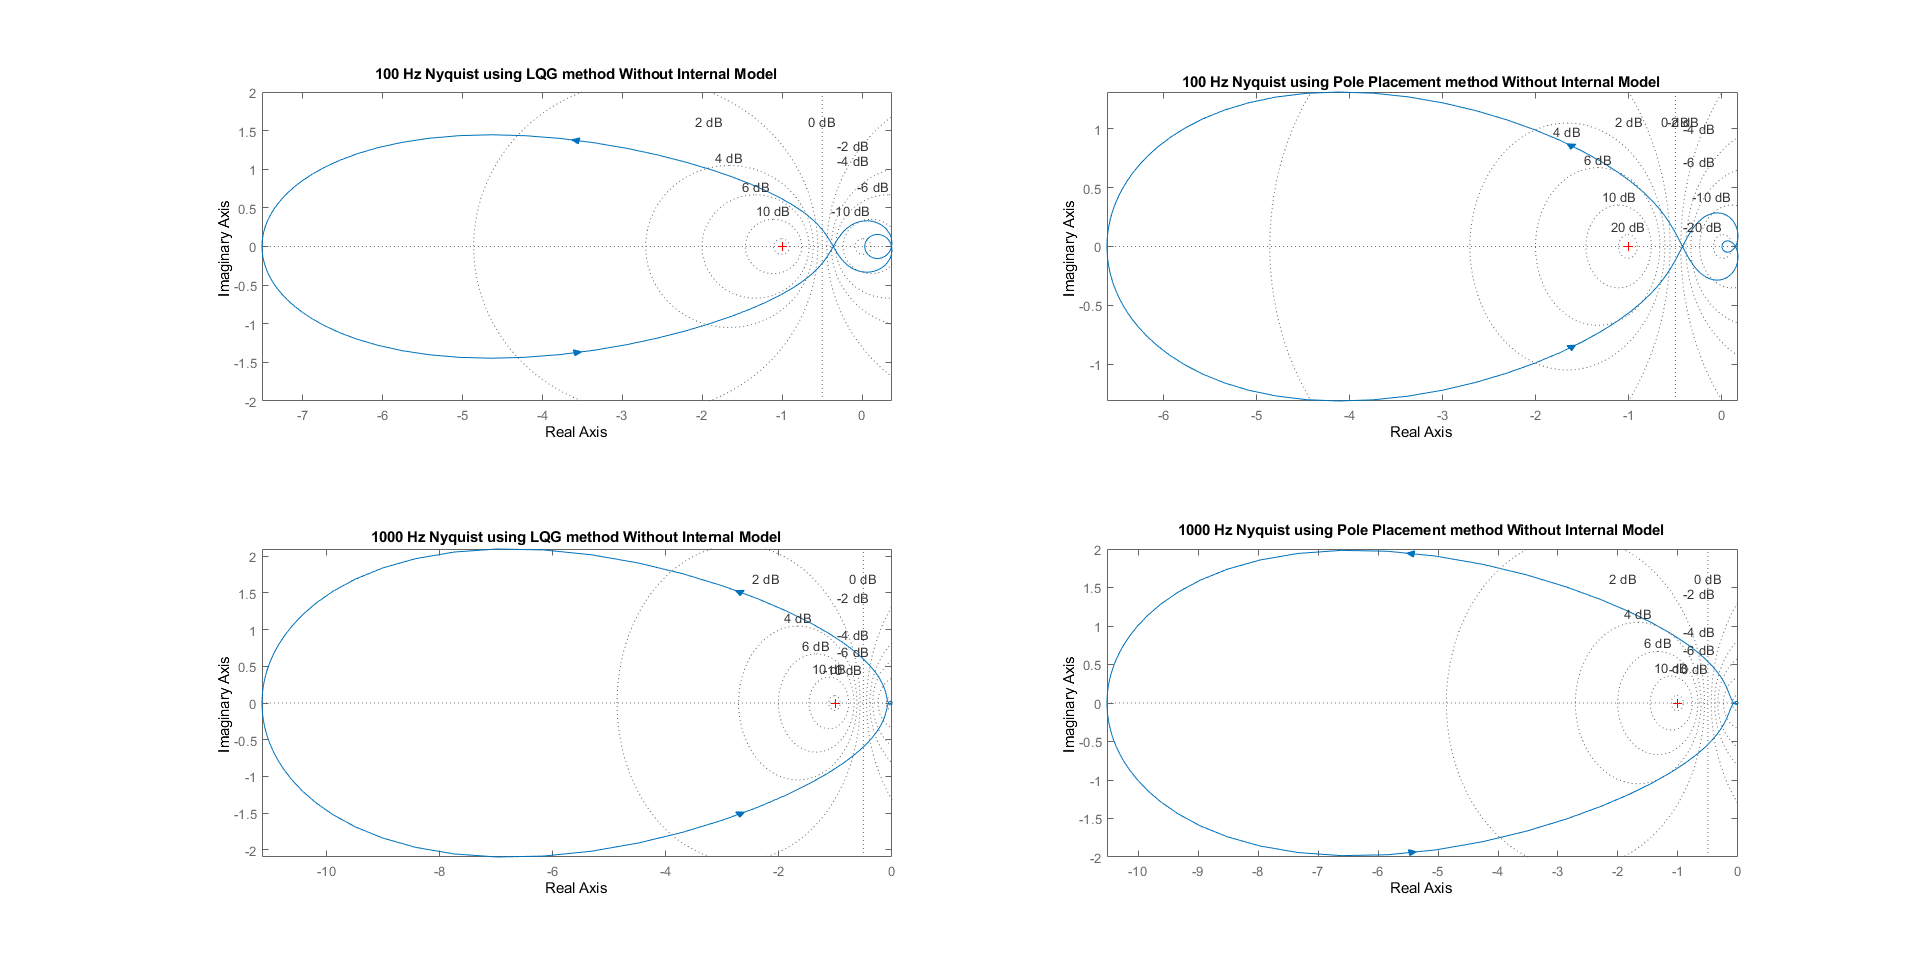
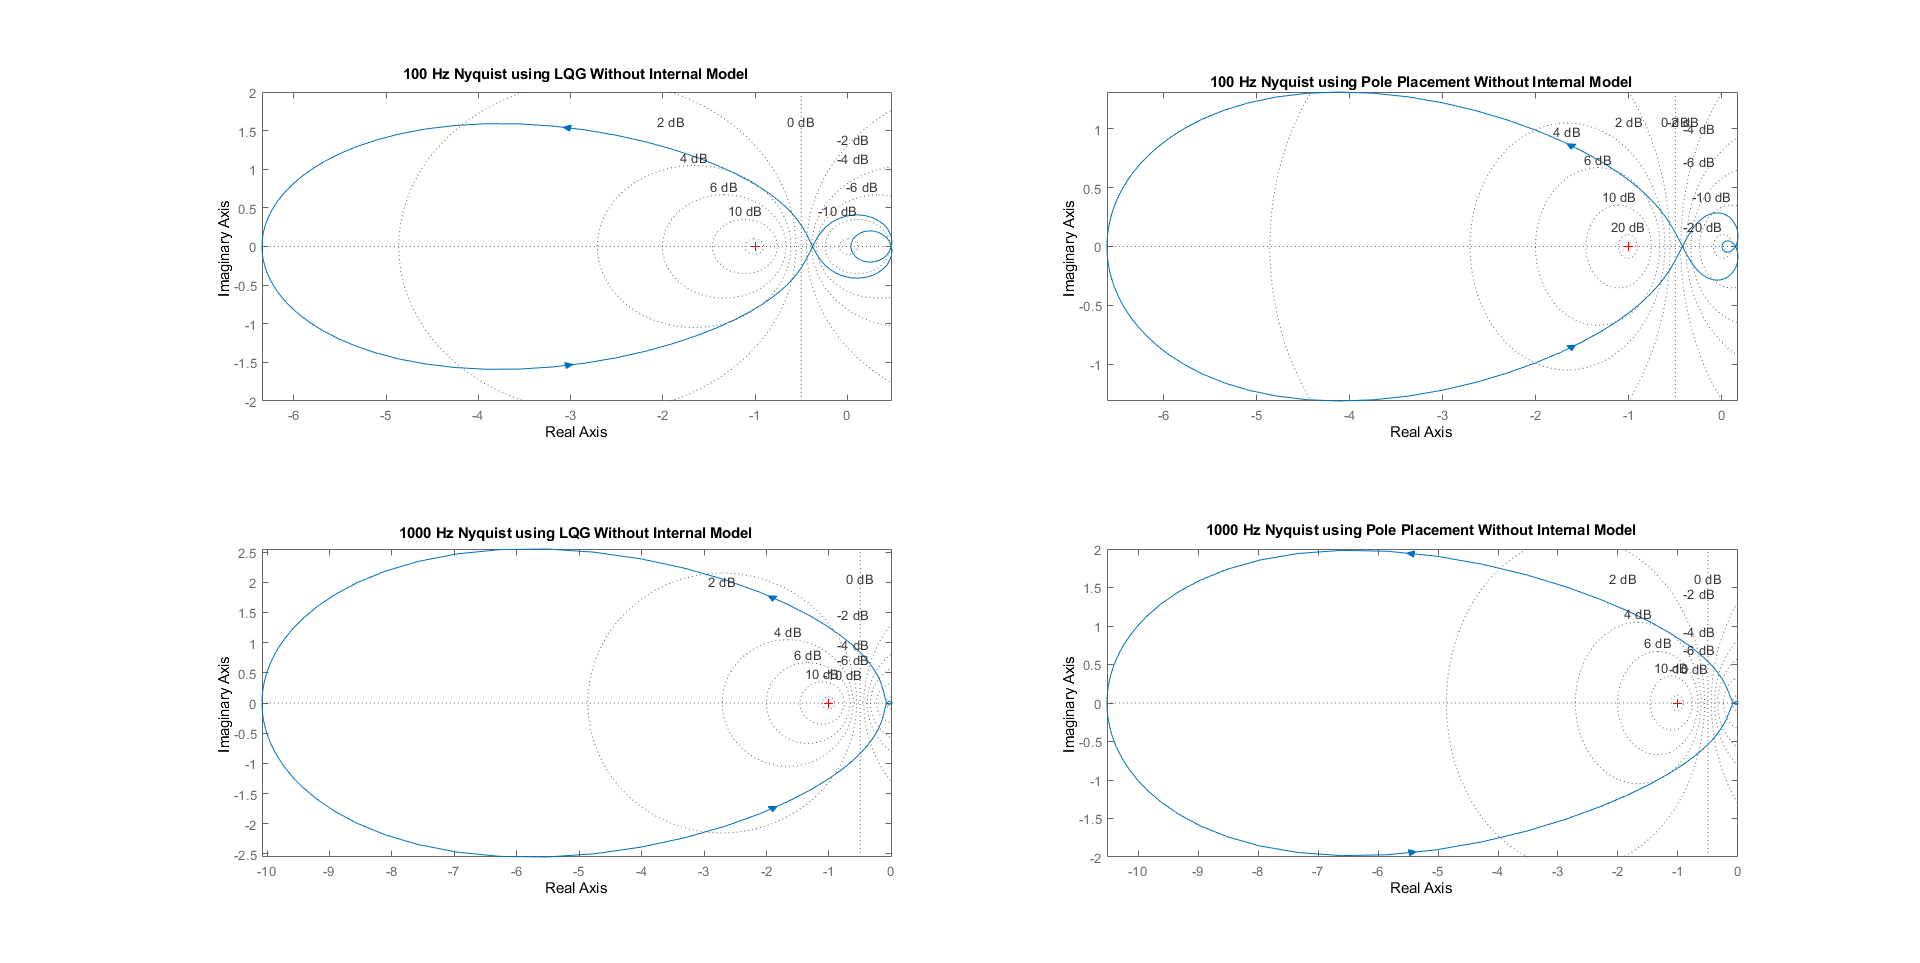
Corrected SOFCIO plot

diff --git a/src/Integral/step_response_our_int.m b/src/Integral/step_response_our_int.m
@@ -78,9 +78,9 @@ for i = 1:2
     Mp_ctl = 15/100; % Maximum percent overshoot 15%
     
     design_lib = ["SOFC","SOFCI","SOFCIO"];
-    design = design_lib(3);
+    design = design_lib(2);
     plot_libs = ["Without Internal Model","With Integrator Only","With Integrator + Oscillator"];
-    plot_lib = plot_libs(3);
+    plot_lib = plot_libs(2);
     methods = ["LQG","Pole Placement"];
     for j = 1:1
         method = methods(j);
@@ -88,7 +88,7 @@ for i = 1:2
         [L_Pred, K_SF, N, K_int, Loop_SF, SS_closed, TF,num,dem,Ad,Bd] = SOFC(G,...
             Ts, Zeta_obs, Wn_obs, Tr_ctl, Mp_ctl, F_rotorred, design,method); %Get controller gain, observer gain and feedforward gain
         
-        K_aug = [K_SF,K_int];
+        WeK_aug = [K_SF,K_int];
         TF_yr=TF(1,1)  ;
         TF_ur=TF(2,1)  ;
         TF_er=TF(3,1)  ;
@@ -128,10 +128,8 @@ for i = 1:2
                 Controller_int = K_int/(z-1)*(1-ss(A_d-B_d*K_SF-L_Pred*C_d,B_d,K_SF,0,Ts));
                 state_order = size(A_d,1)+size(A_d,1) + 1;
             case{'SOFCIO'}
-                f = 2 * pi;
-                zeta_osi = 0;
-                osi_c = f^2 / (s*(s^2 +2 * zeta_osi *f * s + f^2));
-                osi_d = c2d(osi_c,Ts,'matched');
+                osi_d = tf(num,dem,Ts);
+%                 osi_d = c2d(osi_c,Ts,'matched');
                 Controller_int = osi_d* (1-ss(A_d-B_d*K_SF-L_Pred*C_d,B_d,K_SF,0,Ts));
                 state_order = size(A_d,1)+size(A_d,1)+3;
         end

diff --git a/lib/SOFC.m b/lib/SOFC.m
@@ -47,7 +47,7 @@ pole_z_ctl = exp(pole_s_ctl*Ts);
 switch(design)
     case{'SOFC'}
     
-        if method == "Pole_Placement"
+        if method == "Pole Placement"
             K_SF = acker(A_d,B_d,pole_z_ctl);
         else
             Q = C_d'*C_d;
@@ -95,7 +95,7 @@ switch(design)
 
     case{'SOFCIO'}
         f = 2 * pi;
-        zeta_osi = 1;
+        zeta_osi = 0;
         osi_c = f^2 / (s*(s^2 +2 * zeta_osi *f * s + f^2));
         osi_d = c2d(osi_c,Ts,'matched');
         [num,dem] = tfdata(osi_d);
@@ -108,7 +108,7 @@ switch(design)
             pole_z_ctl_int= [pole_z_ctl, pole_int];
             K_aug=acker(Aaug,Baug,pole_z_ctl_int);
         else
-            C_aug = [60, 0, 0.005, 0.005, 0.005];
+            C_aug = [30, 0, 0.005, 0.005, 0.005];
             Q = C_aug' * C_aug;
             R = 10;
             [K_aug,~,P_aug_ctr] = dlqr(Aaug,Baug,Q,R);
